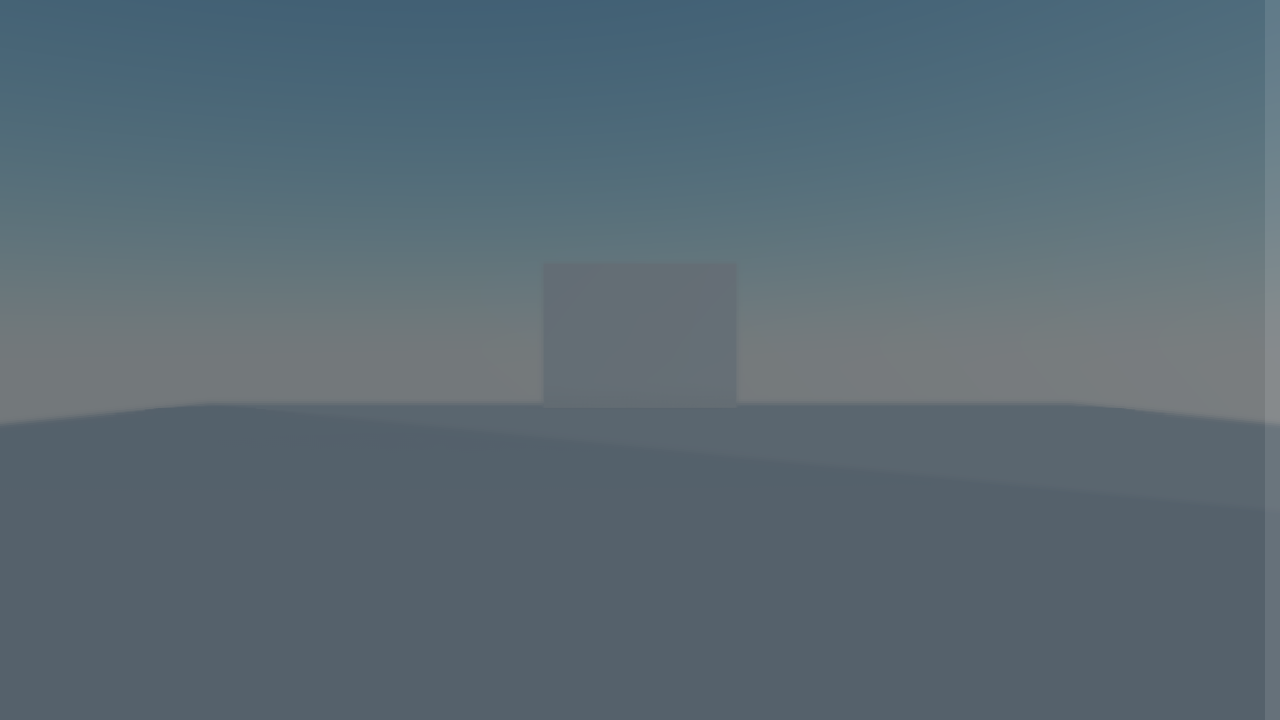
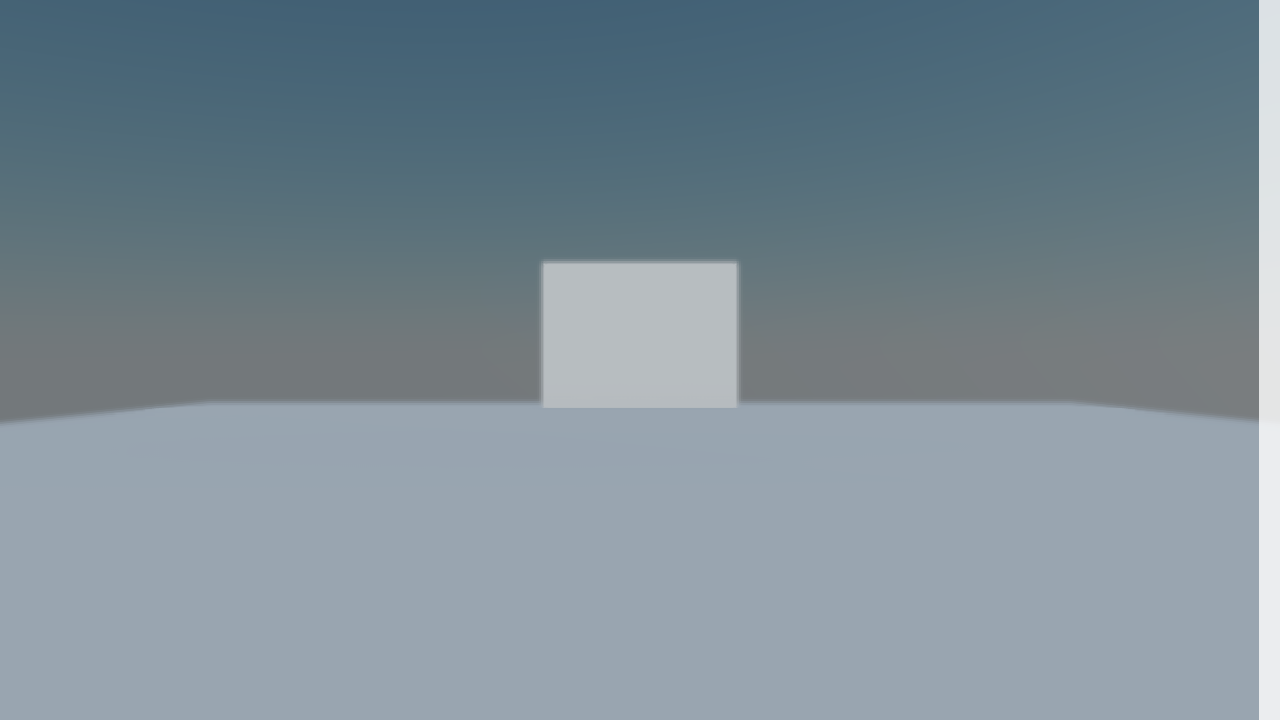
Update examples materials and screenshots

diff --git a/examples/clear-coat.js b/examples/clear-coat.js
@@ -42,7 +42,8 @@ for (var i = 0; i < 3; i++) {
       }),
       renderer.postProcessing({
         fxaa: true,
-        ssao: true
+        ssao: true,
+        ssaoStrength: 5
       })
     ],
     ['camera-' + (i + 1)]
@@ -86,13 +87,10 @@ function getMaterialMaps(maps, options) {
 
 const directionalLight = renderer.entity([
   renderer.transform({
-    rotation: quat.fromTo(
-      quat.create(),
-      [0, 0, 1],
-      vec3.normalize([-1, -1, -1])
-    )
+    rotation: quat.fromTo(quat.create(), [0, 0, 1], vec3.normalize([1, -3, -1]))
   }),
   renderer.directionalLight({
+    castShadows: true,
     color: [1, 1, 1, 1]
   })
 ])
@@ -101,12 +99,10 @@ renderer.add(directionalLight)
 const reflectionProbe = renderer.entity([renderer.reflectionProbe()])
 renderer.add(reflectionProbe)
 ;(async () => {
-  const buffer = await io.loadBinary(`${ASSETS_DIR}/Road_to_MonumentValley.hdr`)
-  // const buffer = await io.loadBinary(`${ASSETS_DIR}/Zion_7_Sunsetpeek_Ref.hdr`)
+  const buffer = await io.loadBinary(
+    `${ASSETS_DIR}/envmaps/Road_to_MonumentValley/Road_to_MonumentValley.hdr`
+  )
   const hdrImg = parseHdr(buffer)
-  for (var i = 0; i < hdrImg.data.length; i++) {
-    hdrImg.data[i] *= 1
-  }
   const panorama = ctx.texture2D({
     data: hdrImg.data,
     width: hdrImg.shape[0],
@@ -127,13 +123,16 @@ renderer.add(reflectionProbe)
       `${ASSETS_DIR}/materials/carbon-fiber/carbon-fiber-normal.jpg`
     ),
     clearCoatNormalMap: await io.loadImage(
-      `${ASSETS_DIR}/textures/Metal05/Metal05_nrm.jpg`
+      `${ASSETS_DIR}/materials/Metal05/Metal05_nrm.jpg`
+    ),
+    aoMap: await io.loadImage(
+      `${ASSETS_DIR}/models/substance-sample-scene/substance-sample-scene_ao.jpg`
     )
   })
 
   const materialGeom = parseObj(
     await loadText(
-      `${ASSETS_DIR}/substance-sample-scene/substance-sample-scene.obj`
+      `${ASSETS_DIR}/models/substance-sample-scene/substance-sample-scene.obj`
     )
   )
 
@@ -151,7 +150,13 @@ renderer.add(reflectionProbe)
         roughness: 0.25,
         metallic: 0,
         clearCoat: 1,
-        clearCoatRoughness: 0.1
+        clearCoatRoughness: 0.1,
+        castShadows: true,
+        receiveShadows: true,
+        occlusionMap: {
+          texture: materialMaps.aoMap,
+          scale: [1, 1]
+        }
       })
     ],
     ['camera-1']
@@ -168,9 +173,15 @@ renderer.add(reflectionProbe)
         metallic: 0,
         clearCoat: 1,
         clearCoatRoughness: 0.1,
+        castShadows: true,
+        receiveShadows: true,
         normalMap: {
           texture: materialMaps.normalMap,
           scale: [4, 4]
+        },
+        occlusionMap: {
+          texture: materialMaps.aoMap,
+          scale: [1, 1]
         }
       })
     ],
@@ -188,6 +199,8 @@ renderer.add(reflectionProbe)
         metallic: 0,
         clearCoat: 1,
         clearCoatRoughness: 0.1,
+        castShadows: true,
+        receiveShadows: true,
         normalMap: {
           texture: materialMaps.normalMap,
           scale: [4, 4]
@@ -196,7 +209,10 @@ renderer.add(reflectionProbe)
           texture: materialMaps.clearCoatNormalMap,
           scale: [8, 8]
         },
-        normalScale: 2
+        occlusionMap: {
+          texture: materialMaps.aoMap,
+          scale: [1, 1]
+        }
       })
     ],
     ['camera-3']
@@ -234,10 +250,9 @@ renderer.add(reflectionProbe)
     }
   )
 
-  window.dispatchEvent(new CustomEvent('pex-screenshot'))
+  ctx.frame(() => {
+    renderer.draw()
+    gui.draw()
+    window.dispatchEvent(new CustomEvent('pex-screenshot'))
+  })
 })()
-
-ctx.frame(() => {
-  renderer.draw()
-  gui.draw()
-})

diff --git a/examples/vertex-colors.js b/examples/vertex-colors.js
@@ -1,6 +1,9 @@
 const createRenderer = require('../')
 const createContext = require('pex-context')
 const createCube = require('primitive-cube')
+const random = require('pex-random')
+
+random.seed(0)
 
 const ctx = createContext()
 
@@ -15,39 +18,23 @@ const camera = renderer.entity([
     near: 0.1,
     far: 100
   }),
-  renderer.orbiter({ position: [0, 0, 3] })
+  renderer.orbiter({ position: [1, 1, 1] })
 ])
 renderer.add(camera)
 
 const geometry = createCube()
-geometry.vertexColors = geometry.uvs.map((uv) => [...uv, 0, 0.5])
-
-const skyboxEntity = renderer.entity([
-  renderer.skybox({
-    sunPosition: [1, 1, 1]
-  })
+geometry.vertexColors = geometry.uvs.map(() => [
+  random.float(),
+  random.float(),
+  random.float(),
+  0.5
 ])
-renderer.add(skyboxEntity)
-
-const reflectionProbeEntity = renderer.entity([renderer.reflectionProbe()])
-renderer.add(reflectionProbeEntity)
 
 const cubeEntity = renderer.entity([
   renderer.geometry(geometry),
   renderer.material({
     baseColor: [1, 1, 1, 0.5],
-    // or
-    // useSpecularGlossinessWorkflow: true,
-    // diffuse: [1, 1, 1, 0.5],
-    // glossiness: 0,
-    // or
-    // unlit: true,
-    depthWrite: false,
-    blend: true,
-    blendSrcRGBFactor: ctx.BlendFactor.SrcAlpha,
-    blendSrcAlphaFactor: ctx.BlendFactor.One,
-    blendDstRGBFactor: ctx.BlendFactor.OneMinusSrcAlpha,
-    blendDstAlphaFactor: ctx.BlendFactor.One
+    unlit: true
   })
 ])
 renderer.add(cubeEntity)

diff --git a/examples/window-resize.js b/examples/window-resize.js
@@ -1,6 +1,6 @@
 const createRenderer = require('../')
 const createContext = require('pex-context')
-const vec3 = require('pex-math/vec3')
+const { quat, vec3 } = require('pex-math')
 const createCube = require('primitive-cube')
 
 const ctx = createContext()
@@ -40,6 +40,22 @@ renderer.add(skyboxEntity)
 const reflectionProbeEntity = renderer.entity([renderer.reflectionProbe()])
 renderer.add(reflectionProbeEntity)
 
+const directionalLight = renderer.entity([
+  renderer.transform({
+    rotation: quat.fromTo(
+      quat.create(),
+      [0, 0, 1],
+      vec3.normalize([-1, -2, -3])
+    )
+  }),
+  renderer.directionalLight({
+    castShadows: true,
+    color: [1, 1, 1, 1],
+    intensity: 2
+  })
+])
+renderer.add(directionalLight)
+
 const groundEntity = renderer.entity([
   renderer.transform({
     position: [0, -0.55, 0]
@@ -47,7 +63,9 @@ const groundEntity = renderer.entity([
   renderer.geometry(createCube(10, 0.1, 10)),
   renderer.material({
     receiveShadows: true,
-    castShadows: true
+    castShadows: true,
+    metallic: 0,
+    roughness: 1
   })
 ])
 renderer.add(groundEntity)
@@ -56,6 +74,8 @@ const cubeEntity = renderer.entity([
   renderer.geometry(createCube(1, 1, 1)),
   renderer.material({
     baseColor: [1, 1, 1, 1],
+    metallic: 0,
+    roughness: 1,
     receiveShadows: true,
     castShadows: true
   })

diff --git a/examples/orbiter.js b/examples/orbiter.js
@@ -48,15 +48,15 @@ const cameraEntity = renderer.entity([
 ])
 renderer.add(cameraEntity)
 
-const sphereEntity = renderer.entity([
+const cubeEntity = renderer.entity([
   renderer.transform(),
   renderer.geometry(createCube()),
   renderer.material({
-    baseColor: [1, 0, 0, 1],
-    metallic: 1
+    baseColor: [0.75, 0, 0, 1],
+    metallic: 0
   })
 ])
-renderer.add(sphereEntity)
+renderer.add(cubeEntity)
 
 const skyboxEntity = renderer.entity([
   renderer.skybox({

diff --git a/examples/basic.js b/examples/basic.js
@@ -40,7 +40,7 @@ ctx.frame(() => {
 
   const skybox = skyboxEntity.getComponent('Skybox')
   skybox.set({
-    sunPosition: [1 * Math.cos(now), 0.1, 1 * Math.sin(now)]
+    sunPosition: [1 * Math.cos(now), 1, 1 * Math.sin(now)]
   })
 
   renderer.draw()

diff --git a/examples/cameras.js b/examples/cameras.js
@@ -53,7 +53,8 @@ for (let i = 0; i < cubeCount; i++) {
     }),
     renderer.geometry(geometry),
     renderer.material({
-      baseColor: [0.5, 0, 0, 1]
+      baseColor: [0, 0.5, 1, 1],
+      metallic: 0
     })
   ])
   renderer.add(cubeEntity)

diff --git a/examples/camera-view.js b/examples/camera-view.js
@@ -93,7 +93,7 @@ renderer.add(axesEntity)
 const cubeEntity = renderer.entity([
   renderer.geometry(createCube()),
   renderer.material({
-    baseColor: [0.5, 0, 0, 1]
+    baseColor: [1, 0, 0, 1]
   })
 ])
 renderer.add(cubeEntity)
